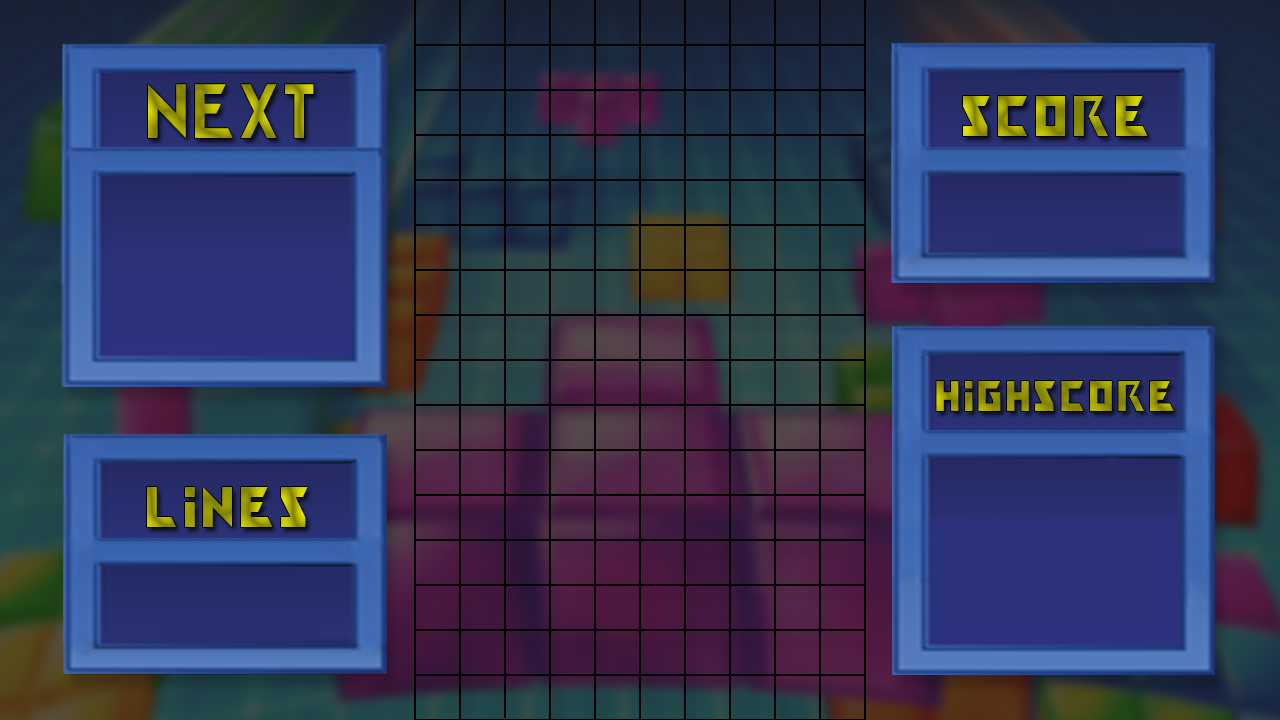
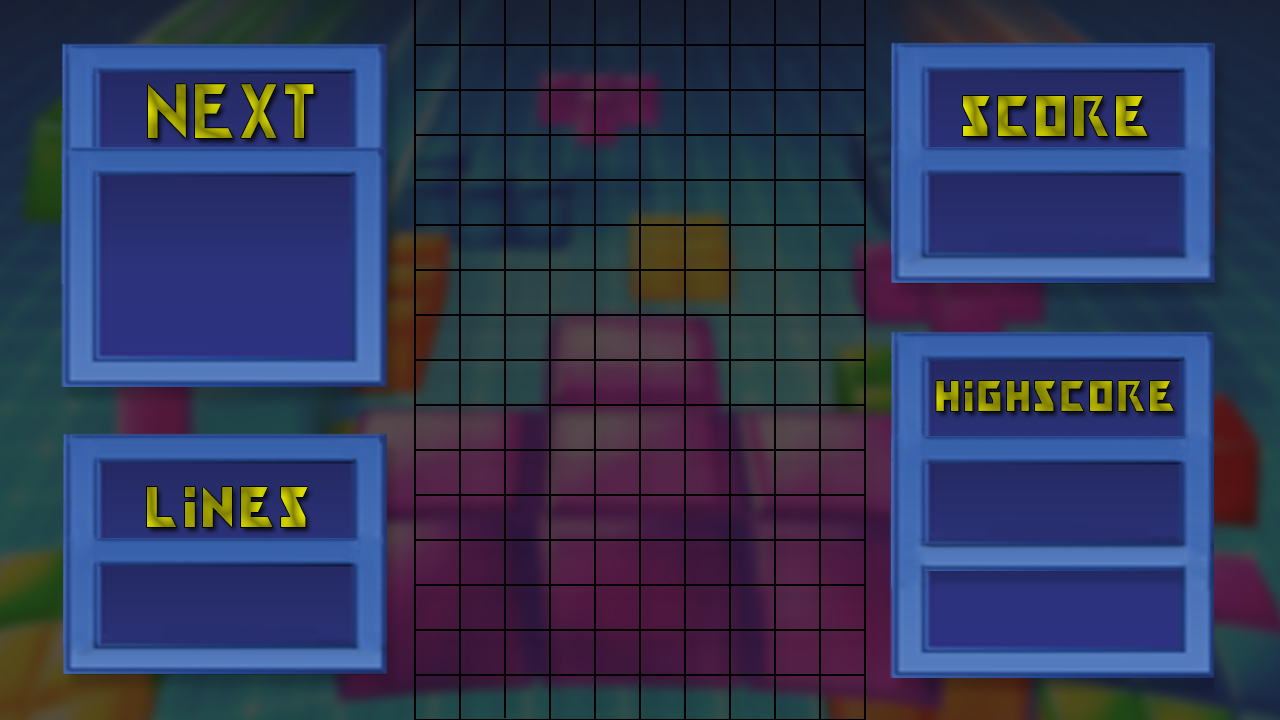
lines

diff --git a/Tetris_G2/main.c b/Tetris_G2/main.c
@@ -110,7 +110,7 @@ int main(int argc, char* args[])
 			for (int j = 0; j < 4; j++)
 			{
 				impPreview[i][j].x = 135;
-				impPreview[i][j].y = 270;
+				impPreview[i][j].y = 180;
 				impPreview[i][j].w = 45;
 				impPreview[i][j].h = 45;
 			}
@@ -470,8 +470,8 @@ int main(int argc, char* args[])
 				textSurf = TTF_RenderText_Solid(font, &filasElim, colorText);
 				textTexture = SDL_CreateTextureFromSurface(rend, textSurf);
 				SDL_QueryTexture(textTexture, NULL, NULL, &textRect.w, &textRect.h);
-				textRect.x = 150;
-				textRect.y = 600;
+				textRect.x = 208;
+				textRect.y = 590;
 				SDL_FreeSurface(textSurf);
 				SDL_RenderCopy(rend, textTexture, NULL, &textRect);
 				SDL_RenderPresent(rend);
@@ -499,7 +499,7 @@ int main(int argc, char* args[])
 				textTexture = SDL_CreateTextureFromSurface(rend, textSurf);
 				SDL_QueryTexture(textTexture, NULL, NULL, &textRect.w, &textRect.h);
 				textRect.x = 1040;
-				textRect.y = 235;
+				textRect.y = 190;
 				SDL_FreeSurface(textSurf);
 				SDL_RenderCopy(rend, textTexture, NULL, &textRect);
 				SDL_RenderPresent(rend);
@@ -510,7 +510,7 @@ int main(int argc, char* args[])
 				textTexture = SDL_CreateTextureFromSurface(rend, textSurf);
 				SDL_QueryTexture(textTexture, NULL, NULL, &textRect.w, &textRect.h);
 				textRect.x = 985;
-				textRect.y = 550;
+				textRect.y = 490;
 				SDL_FreeSurface(textSurf);
 				SDL_RenderCopy(rend, textTexture, NULL, &textRect);
 				SDL_RenderPresent(rend);
